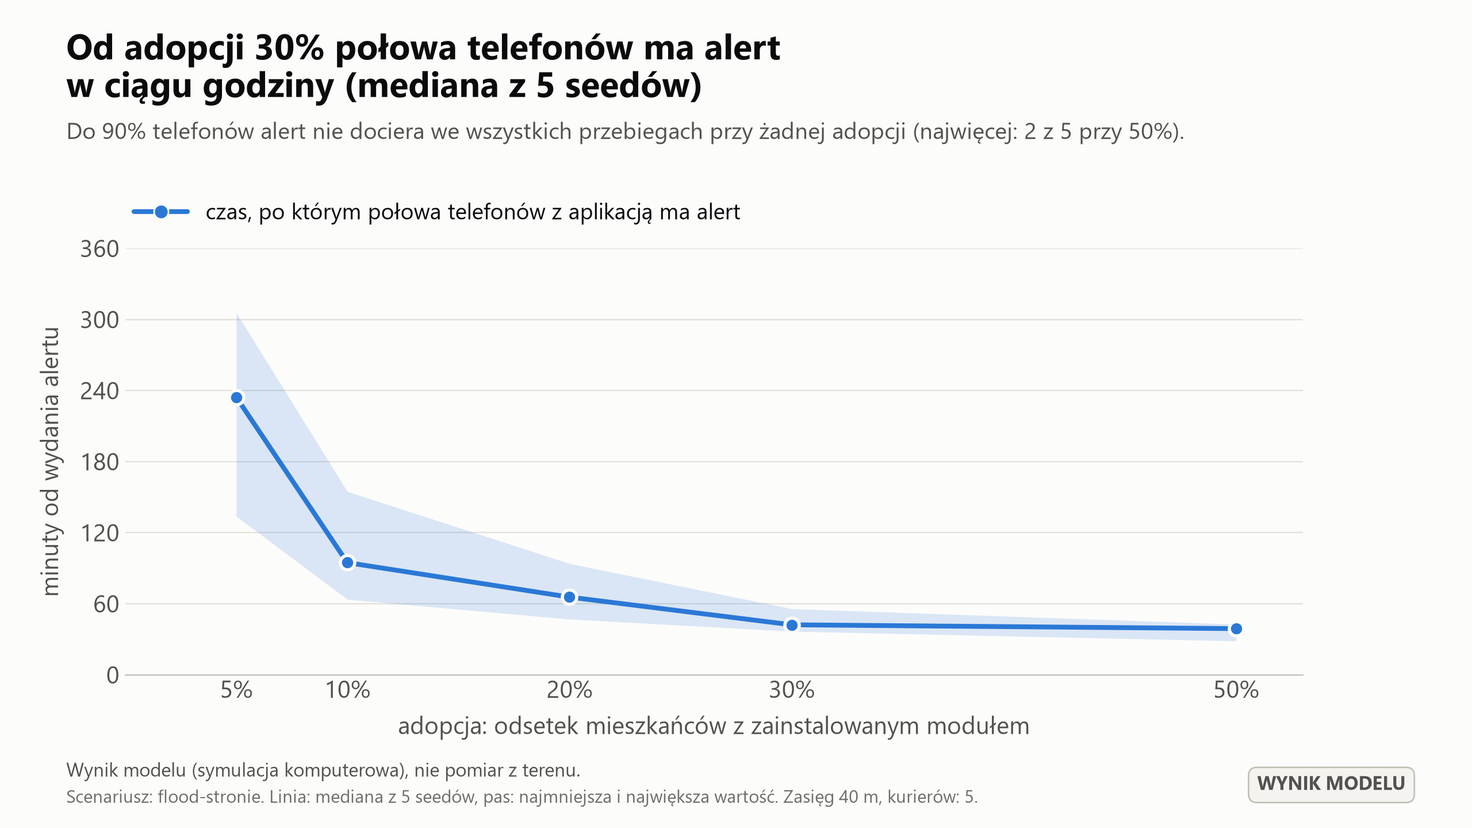
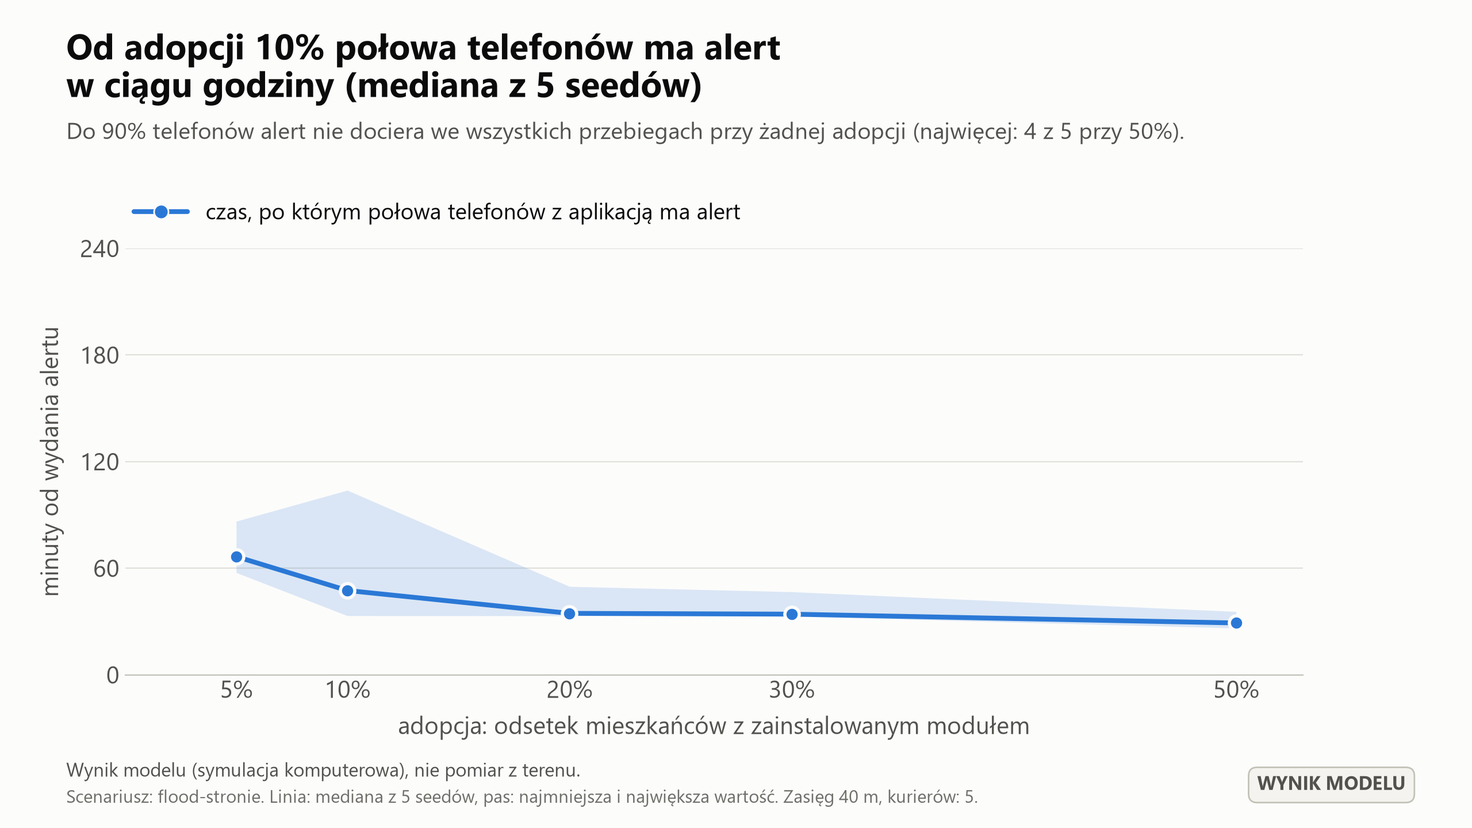
Przeliczony przegląd dla scenariusza całego miasta; WYNIKI.md mówi wprost, która część kryterium zawodzi
- docs/WYNIKI.md i docs/wykresy z 265 uruchomień policzonych na ad4d1e9
- krótsze napisy końcowe animacji w wariancie dla całego miasta

diff --git a/src/sztafeta/viz/labels.py b/src/sztafeta/viz/labels.py
@@ -154,7 +154,7 @@ _PL: dict[str, str] = {
     "ev_couriers_city": "Kurierzy roznoszą alert po mieście",
     "ev_evac_start_city": "Miasto zaczyna się ewakuować",
     "ev_evac_half_city": "Połowa miasta jest bezpieczna",
-    "ev_end_city": "Ewakuowano {pct:.0f}% mieszkańców miasta",
+    "ev_end_city": "Ewakuowano {pct:.0f}% mieszkańców",
     "evac_title_city": "Dzięki alertowi do punktu ewakuacji dociera {relay} mieszkańców miasta",
     "evac_sub_city": "Wszyscy mieszkańcy miasta, z aplikacją i bez (ci drudzy dowiadują się ustnie).",
     "evac_sub_vs_city": (
@@ -306,11 +306,11 @@ _EN: dict[str, str] = {
     "ev_evac_half": "Half of the zone is safe",
     "ev_end": "{pct:.0f}% of zone residents evacuated",
     "tile_evac_city": "Residents at the evacuation point",
-    "tile_evac_value_city": "{pct:.0f}% of the town's residents",
+    "tile_evac_value_city": "{pct:.0f}% of town residents",
     "ev_couriers_city": "Couriers carry the alert across town",
     "ev_evac_start_city": "The town starts evacuating",
     "ev_evac_half_city": "Half of the town is safe",
-    "ev_end_city": "{pct:.0f}% of the town's residents evacuated",
+    "ev_end_city": "{pct:.0f}% of residents evacuated",
     "evac_title_city": "Thanks to the alert {relay} of the town's residents reach the evacuation point",
     "evac_sub_city": "All town residents, with and without the app (the latter learn by word of mouth).",
     "evac_sub_vs_city": (

diff --git a/src/sztafeta/wyniki.py b/src/sztafeta/wyniki.py
@@ -304,11 +304,18 @@ def write_wyniki(
         if below:
             row = _one(summary, FULL, below[-1], ref_r, ref_c)
             if row is not None:
+                # wprost, która część kryterium zawodzi o stopień niżej: czas, zasięg czy obie
+                t50 = row["t50_app_s_med"]
+                slow = t50 is None or pd.isna(t50) or float(t50) > THRESHOLD_T50_S
+                low = float(row["alert_reach_zone_app_med"]) < THRESHOLD_ZONE_PCT
+                why = " i ".join(
+                    text for text, failed in (("za wolno", slow), ("za mały zasięg", low)) if failed
+                )
                 add(
-                    f"Przy adopcji {100 * below[-1]:.0f}% połowa telefonów ma alert dopiero po "
-                    f"{_time_cell(row, 't50_app_s', seeds)}, a zasięg "
+                    f"Przy adopcji {100 * below[-1]:.0f}% kryterium nie jest spełnione ({why}): "
+                    f"połowa telefonów ma alert po {_time_cell(row, 't50_app_s', seeds)}, a zasięg "
                     f"{'na koniec' if city else 'w strefie zagrożenia'} wynosi "
-                    f"{float(row['alert_reach_zone_app_med']):.0f}%."
+                    f"{float(row['alert_reach_zone_app_med']):.1f}%."
                 )
     add("")
     add(

diff --git a/tests/test_city_area.py b/tests/test_city_area.py
@@ -149,7 +149,7 @@ def test_animation_without_zone_tells_the_story_of_the_whole_city(city_run: Path
     texts = [text for _, text in anim.story]
     assert "Kurierzy roznoszą alert po mieście" in texts
     assert "Miasto zaczyna się ewakuować" in texts
-    assert texts[-1].startswith("Ewakuowano") and texts[-1].endswith("mieszkańców miasta")
+    assert texts[-1].startswith("Ewakuowano") and texts[-1].endswith("mieszkańców")
     assert texts.index("Kurierzy roznoszą alert po mieście") < texts.index("Miasto zaczyna się ewakuować")
     anim.draw(Shot(900.0))
     drawn = [t.get_text() for t in anim.ax.texts] + [t.get_text() for t in anim.panel.texts]

diff --git a/docs/WYNIKI.md b/docs/WYNIKI.md
@@ -6,57 +6,58 @@
 
 - preset: `flood-stronie`, mapa: OpenStreetMap, Stronie Śląskie (© autorzy OpenStreetMap (ODbL))
 - czas symulacji: 6 h od awarii sieci, 2999 mieszkańców
+- alert i ewakuacja dotyczą **całego miasta** (scenariusz bez wydzielonej strefy zagrożenia); kurierzy patrolują ulice przy wszystkich budynkach
 - adopcja: 5%, 10%, 20%, 30%, 50%
 - zasięg radia: 25 m, 40 m, 80 m
 - liczba kurierów: 2, 5, 10
 - seedy: 5 na kombinację (1–5); łącznie 265 uruchomień
 - przy ustawieniach odniesienia (adopcja 30%, zasięg 40 m, 5 kurierów) dodatkowo: wariant bez Sztafety, same telefony, sami kurierzy i warianty wrażliwości (punkty 5 i 6)
-- wersja kodu: `0.1.0+839b5dc`
+- wersja kodu: `0.1.0+ad4d1e9`
 
 W tabelach podajemy **medianę między seedami**, a w nawiasie **najmniejszą i największą wartość** (rozrzut). Czasy liczymy od wydania alertu. „Adopcja” oznacza telefony z zainstalowanym i działającym modułem (Bluetooth włączony, aplikacja może pracować w tle).
 
 ## Liczby na slajd
 
-1. W modelu (adopcja 30%, zasięg 40 m, 5 kurierów, 5 seedów) zweryfikowany alert po 6 h ma **83% telefonów z aplikacją** (rozrzut 82–84%), a w strefie zagrożenia **96%**. Połowa telefonów ma go po 42 min (37–56) od wydania. Przy zasięgu 25 m: 70% telefonów, połowa po 125 min (99–192).
-2. Skąd bierze się ten wynik (adopcja 30%, zasięg 40 m, 5 kurierów, 5 seedów): bez żadnego przekazywania alert ma 2.7% telefonów; same telefony bez kurierów dają 70% (w strefie 58%); sami kurierzy bez przekazywania telefon–telefon 44% (w strefie 80%); oba mechanizmy razem **83%** (w strefie 96%). W strefie zagrożenia większość pracy wykonują kurierzy, poza nią telefony mieszkańców.
-3. W modelu (adopcja 30%, zasięg 40 m, 5 kurierów, 5 seedów) do PCZK dociera **99% zgłoszeń mieszkańców strefy zagrożenia** i 51% zgłoszeń spoza strefy, gdzie kurierzy nie patrolują (łącznie 76%). Mediana opóźnienia dostarczonych zgłoszeń to 12 min. Potwierdzenie „przyjęto” wraca do **96%** zgłaszających, których zgłoszenie dotarło.
-4. W modelu (adopcja 30%, zasięg 40 m, 5 kurierów, 5 seedów) ze strefy zagrożenia ewakuuje się **67%** mieszkańców: 24% to osoby z aplikacją, a 43% osoby bez aplikacji poinformowane ustnie przez domowników i sąsiadów. To założenie modelu: bez przekazu ustnego ewakuuje się 22%, a gdy informują się tylko domownicy – 45%.
-5. We wszystkich 225 uruchomieniach pełnej siatki fałszywy alert uznało za zweryfikowany **0 urządzeń** (dostało go: mediana 55 urządzeń w bezpośrednim zasięgu trolla).
+1. W modelu (adopcja 30%, zasięg 40 m, 5 kurierów, 5 seedów) zweryfikowany alert po 6 h ma **88% telefonów z aplikacją** (rozrzut 86–90%). Połowa telefonów ma go po 34 min (33–47) od wydania. Przy zasięgu 25 m: 73% telefonów, połowa po 94 min (64–128).
+2. Skąd bierze się ten wynik (adopcja 30%, zasięg 40 m, 5 kurierów, 5 seedów): bez żadnego przekazywania alert ma 2.5% telefonów; same telefony bez kurierów dają 60%; sami kurierzy bez przekazywania telefon–telefon 71%; oba mechanizmy razem **88%**.
+3. W modelu (adopcja 30%, zasięg 40 m, 5 kurierów, 5 seedów) do PCZK dociera **99% zgłoszeń mieszkańców**. Mediana opóźnienia dostarczonych zgłoszeń to 13 min. Potwierdzenie „przyjęto” wraca do **97%** zgłaszających, których zgłoszenie dotarło.
+4. W modelu (adopcja 30%, zasięg 40 m, 5 kurierów, 5 seedów) do punktu ewakuacji dociera **59%** mieszkańców miasta: 21% to osoby z aplikacją, a 38% osoby bez aplikacji poinformowane ustnie przez domowników i sąsiadów. To założenie modelu: bez przekazu ustnego ewakuuje się 21%, a gdy informują się tylko domownicy – 43%.
+5. We wszystkich 225 uruchomieniach pełnej siatki fałszywy alert uznało za zweryfikowany **0 urządzeń** (dostało go: mediana 63 urządzeń w bezpośrednim zasięgu trolla).
 
 ## Od jakiej adopcji system ma sens
 
-Kryterium (umowne, przy 5 kurierach): połowa telefonów z aplikacją ma alert **najpóźniej godzinę po jego wydaniu**, a po 6 h ma go **co najmniej 90% telefonów z aplikacją w strefie zagrożenia** (mediany między seedami). Sam zasięg na koniec nie wystarcza: przy małej adopcji alert roznoszą głównie kurierzy i trwa to godzinami.
+Kryterium (umowne, przy 5 kurierach): połowa telefonów z aplikacją ma alert **najpóźniej godzinę po jego wydaniu**, a po 6 h ma go **co najmniej 90% telefonów z aplikacją** (mediany między seedami). Sam zasięg na koniec nie wystarcza: przy małej adopcji alert roznoszą głównie kurierzy i trwa to godzinami.
 
 | Zasięg radia | Najmniejsza badana adopcja spełniająca kryterium |
 |---|---|
 | 25 m | nie osiągnięto (do 50%) |
-| 40 m | 30% |
+| 40 m | 50% |
 | 80 m | 5% |
 
-**Próg w modelu przy zasięgu 40 m i 5 kurierach: adopcja 30%.** To najmniejsza z badanych wartości, a nie dokładna granica.
-Przy adopcji 20% połowa telefonów ma alert dopiero po 66 min (47–94), a zasięg w strefie zagrożenia wynosi 95%.
+**Próg w modelu przy zasięgu 40 m i 5 kurierach: adopcja 50%.** To najmniejsza z badanych wartości, a nie dokładna granica.
+Przy adopcji 30% kryterium nie jest spełnione (za mały zasięg): połowa telefonów ma alert po 34 min (33–47), a zasięg na koniec wynosi 88.1%.
 
 Uwagi: (1) próg zależy od zasięgu radia bardziej niż od czegokolwiek innego, a zasięgu w zabudowie nie znamy; (2) próg dotyczy sytuacji z kurierami w terenie; (3) nawet powyżej progu sama aplikacja obejmuje tylko swoich użytkowników, czyli przy adopcji 30% najwyżej 30% mieszkańców; reszta zależy od przekazu ustnego i innych kanałów.
 
 ## 1. Czas do zasięgu 50% i 90% telefonów z aplikacją (5 kurierów)
 
-| Adopcja | Zasięg | Czas do 50% | Czas do 90% | Zasięg po 6 h | W strefie zagrożenia |
-|---|---|---|---|---|---|
-| 5% | 25 m | nie osiągnięto | nie osiągnięto | 42.4% (30.6–44.5) | 65.7% (56.7–73.0) |
-| 5% | 40 m | 234 min (134–306) | nie osiągnięto | 59.9% (52.1–67.1) | 88.6% (76.7–92.1) |
-| 5% | 80 m | 49 min (25–56) | nie osiągnięto | 79.1% (72.2–84.1) | 100.0% (91.9–100.0) |
-| 10% | 25 m | nie osiągnięto | nie osiągnięto | 45.7% (41.7–48.7) | 72.6% (67.0–75.4) |
-| 10% | 40 m | 95 min (64–155) | nie osiągnięto | 71.4% (64.0–79.5) | 94.0% (86.2–96.7) |
-| 10% | 80 m | 35 min (18–54) | nie osiągnięto | 82.7% (77.4–87.7) | 98.5% (93.8–100.0) |
-| 20% | 25 m | 219 min (170–279) | nie osiągnięto | 65.0% (54.3–68.2) | 81.9% (76.5–84.0) |
-| 20% | 40 m | 66 min (47–94) | nie osiągnięto | 78.7% (73.7–83.4) | 95.2% (92.5–96.8) |
-| 20% | 80 m | 29 min (15–33) | 312 min (283–340), tylko 2/5 przebiegów | 90.0% (84.0–94.6) | 98.8% (97.8–100.0) |
-| 30% | 25 m | 125 min (99–192) | nie osiągnięto | 70.2% (61.6–73.0) | 84.0% (79.4–87.1) |
-| 30% | 40 m | 42 min (37–56) | nie osiągnięto | 83.4% (81.7–84.1) | 96.1% (91.5–96.3) |
-| 30% | 80 m | 17 min (14–25) | 304 min (179–333), tylko 4/5 przebiegów | 91.2% (89.1–94.8) | 99.2% (97.5–100.0) |
-| 50% | 25 m | 99 min (70–109) | nie osiągnięto | 79.1% (77.3–81.8) | 88.9% (84.5–92.0) |
-| 50% | 40 m | 39 min (29–43) | 265 min (200–331), tylko 2/5 przebiegów | 88.9% (87.6–92.7) | 97.1% (94.7–99.0) |
-| 50% | 80 m | 15 min (12–20) | 152 min (120–251) | 98.6% (96.5–98.7) | 99.4% (98.9–100.0) |
+| Adopcja | Zasięg | Czas do 50% | Czas do 90% | Zasięg po 6 h |
+|---|---|---|---|---|
+| 5% | 25 m | 231 min (143–343) | nie osiągnięto | 55.2% (50.3–62.8) |
+| 5% | 40 m | 67 min (58–86) | nie osiągnięto | 79.7% (75.2–86.0) |
+| 5% | 80 m | 27 min (21–28) | 225 min (182–277), tylko 3/5 przebiegów | 91.7% (88.0–94.3) |
+| 10% | 25 m | 188 min (127–279) | nie osiągnięto | 60.1% (55.5–60.9) |
+| 10% | 40 m | 47 min (33–104) | nie osiągnięto | 83.0% (80.1–83.4) |
+| 10% | 80 m | 21 min (16–25) | 195 min (182–214), tylko 4/5 przebiegów | 92.4% (89.6–94.0) |
+| 20% | 25 m | 128 min (99–178) | nie osiągnięto | 68.5% (64.3–71.2) |
+| 20% | 40 m | 35 min (33–50) | nie osiągnięto | 85.5% (84.7–88.1) |
+| 20% | 80 m | 20 min (16–22) | 168 min (116–240) | 95.3% (92.2–97.1) |
+| 30% | 25 m | 94 min (64–128) | nie osiągnięto | 73.3% (71.3–77.4) |
+| 30% | 40 m | 34 min (33–47) | 329 min (329–329), tylko 1/5 przebiegów | 88.1% (86.2–90.2) |
+| 30% | 80 m | 17 min (13–18) | 200 min (145–218) | 94.1% (92.3–95.5) |
+| 50% | 25 m | 58 min (45–76) | nie osiągnięto | 78.6% (76.2–80.4) |
+| 50% | 40 m | 29 min (26–36) | 302 min (223–337), tylko 4/5 przebiegów | 90.7% (89.2–94.0) |
+| 50% | 80 m | 14 min (13–15) | 100 min (61–115) | 95.9% (94.2–98.4) |
 
 ![Czas do zasięgu w funkcji adopcji](wykresy/adopcja_czas_pl.png)
 
@@ -64,25 +65,25 @@ Uwagi: (1) próg zależy od zasięgu radia bardziej niż od czegokolwiek innego,
 
 ## 2. Zgłoszenia dostarczone do PCZK (zasięg 40 m)
 
-Odsetek zgłoszeń wysłanych do danej chwili, które do tej chwili dotarły do PCZK (czas od awarii sieci). Kurierzy patrolują strefę zagrożenia i punkt ewakuacji, dlatego zgłoszenia ze strefy i spoza niej pokazujemy osobno. Liczba zgłoszeń rośnie z zasięgiem alertu, więc odsetki łączne z różnych wierszy nie są wprost porównywalne.
+Odsetek zgłoszeń wysłanych do danej chwili, które do tej chwili dotarły do PCZK (czas od awarii sieci). Kurierzy patrolują całe miasto i punkt ewakuacji. Liczba zgłoszeń rośnie z zasięgiem alertu, więc odsetki łączne z różnych wierszy nie są wprost porównywalne.
 
-| Adopcja | Kurierzy | Zgłoszeń (mediana) | Po 1 h | Po 3 h | Po 6 h | Ze strefy | Spoza strefy | „Potrzebuję pomocy” | Mediana opóźnienia dostarczonych |
-|---|---|---|---|---|---|---|---|---|---|
-| 5% | 2 | 31 | 33.3% (0.0–90.0) | 70.8% (65.4–84.0) | 86.2% (64.1–90.0) | 94.1% (83.3–100.0) | 70.0% (47.6–80.0) | 60.0% (25.0–100.0) | 17 min |
-| 5% | 5 | 37 | 50.0% (31.6–68.8) | 84.6% (78.3–96.9) | 86.5% (78.8–90.5) | 100.0% (95.5–100.0) | 61.1% (50.0–85.0) | 80.0% (50.0–100.0) | 12 min |
-| 5% | 10 | 35 | 74.1% (46.2–86.4) | 88.9% (69.7–97.2) | 90.9% (77.1–94.6) | 100.0% (100.0–100.0) | 77.8% (55.6–83.3) | 66.7% (0.0–100.0) | 10 min |
-| 10% | 2 | 74 | 52.2% (0.0–60.0) | 68.6% (46.8–76.8) | 78.4% (68.1–91.9) | 100.0% (97.6–100.0) | 51.4% (35.3–74.1) | 71.4% (40.0–88.9) | 18 min |
-| 10% | 5 | 87 | 63.0% (55.6–73.7) | 74.5% (68.4–94.9) | 76.7% (68.4–92.6) | 100.0% (100.0–100.0) | 52.8% (35.1–78.1) | 80.0% (50.0–85.7) | 11 min |
-| 10% | 10 | 82 | 71.4% (54.1–73.2) | 78.3% (73.0–85.7) | 77.2% (74.7–88.8) | 100.0% (97.8–100.0) | 51.2% (43.9–74.3) | 75.0% (0.0–83.3) | 11 min |
-| 20% | 2 | 184 | 50.7% (0.0–58.5) | 66.2% (53.9–77.7) | 74.6% (72.1–79.9) | 98.2% (97.5–99.0) | 50.5% (45.2–55.2) | 60.0% (53.3–85.7) | 20 min |
-| 20% | 5 | 188 | 58.2% (51.2–66.3) | 80.5% (75.5–92.3) | 80.8% (74.0–84.8) | 99.1% (97.7–100.0) | 59.0% (48.8–69.6) | 78.6% (61.5–90.5) | 13 min |
-| 20% | 10 | 191 | 69.6% (63.7–72.0) | 78.3% (74.1–82.9) | 81.1% (76.8–83.1) | 99.1% (97.8–100.0) | 61.1% (53.1–67.3) | 73.3% (63.2–100.0) | 12 min |
-| 30% | 2 | 295 | 45.5% (0.0–58.9) | 69.6% (63.8–71.2) | 72.7% (68.2–76.6) | 98.4% (96.1–99.4) | 48.3% (38.9–51.8) | 80.0% (61.5–90.9) | 21 min |
-| 30% | 5 | 305 | 54.7% (39.8–66.7) | 73.4% (67.9–78.1) | 75.5% (72.1–80.0) | 99.4% (98.8–100.0) | 51.2% (48.3–59.0) | 85.0% (66.7–90.5) | 12 min |
-| 30% | 10 | 298 | 71.4% (70.4–75.2) | 78.4% (72.9–79.3) | 78.5% (74.1–82.7) | 100.0% (99.3–100.0) | 54.4% (45.6–62.1) | 85.7% (82.4–93.3) | 12 min |
-| 50% | 2 | 479 | 48.6% (0.8–53.1) | 67.7% (60.9–73.9) | 71.6% (67.0–78.9) | 99.2% (97.4–99.6) | 42.9% (39.4–56.0) | 78.8% (69.2–84.6) | 20 min |
-| 50% | 5 | 514 | 56.1% (42.9–59.7) | 73.7% (70.8–74.6) | 77.4% (74.3–77.9) | 100.0% (98.4–100.0) | 53.8% (48.7–56.3) | 82.5% (75.0–90.3) | 15 min |
-| 50% | 10 | 539 | 62.3% (54.6–67.0) | 73.7% (70.5–76.4) | 75.1% (69.4–76.7) | 99.6% (99.2–100.0) | 51.0% (43.3–51.8) | 82.9% (72.5–91.4) | 13 min |
+| Adopcja | Kurierzy | Zgłoszeń (mediana) | Po 1 h | Po 3 h | Po 6 h | „Potrzebuję pomocy” | Mediana opóźnienia dostarczonych |
+|---|---|---|---|---|---|---|---|
+| 5% | 2 | 67 | 0.0% (0.0–80.0) | 87.0% (84.6–96.5) | 96.8% (92.9–100.0) | 70.0% (55.6–100.0) | 16 min |
+| 5% | 5 | 80 | 76.0% (66.7–91.9) | 97.0% (92.6–98.6) | 96.2% (90.9–98.8) | 62.5% (45.5–83.3) | 11 min |
+| 5% | 10 | 88 | 80.0% (73.1–90.2) | 98.8% (95.0–100.0) | 100.0% (97.8–100.0) | 100.0% (83.3–100.0) | 8 min |
+| 10% | 2 | 144 | 3.1% (0.0–87.5) | 89.1% (82.1–98.6) | 96.7% (89.6–99.3) | 71.4% (58.8–91.7) | 18 min |
+| 10% | 5 | 161 | 74.7% (67.9–86.0) | 97.3% (94.4–98.5) | 97.5% (96.6–98.8) | 88.9% (61.5–94.7) | 11 min |
+| 10% | 10 | 184 | 86.2% (76.7–92.7) | 97.8% (96.4–98.8) | 98.5% (96.9–99.5) | 88.9% (66.7–93.8) | 9 min |
+| 20% | 2 | 338 | 4.2% (0.0–86.0) | 90.2% (88.0–96.6) | 97.6% (95.9–98.7) | 80.8% (76.5–88.9) | 18 min |
+| 20% | 5 | 351 | 71.8% (69.5–84.6) | 97.3% (93.6–99.4) | 98.5% (98.0–99.2) | 90.2% (82.9–94.7) | 12 min |
+| 20% | 10 | 377 | 86.4% (81.2–89.0) | 99.0% (96.7–99.2) | 99.5% (98.5–99.7) | 94.1% (87.1–100.0) | 9 min |
+| 30% | 2 | 518 | 7.5% (1.6–72.0) | 92.6% (88.0–97.7) | 98.1% (95.8–98.8) | 89.1% (81.8–94.8) | 20 min |
+| 30% | 5 | 552 | 61.9% (55.8–74.1) | 97.9% (96.6–99.2) | 98.8% (98.0–99.3) | 94.9% (79.5–97.0) | 13 min |
+| 30% | 10 | 584 | 83.9% (77.7–88.3) | 99.1% (98.5–99.6) | 99.1% (99.0–99.7) | 93.3% (89.7–96.2) | 10 min |
+| 50% | 2 | 909 | 5.8% (3.4–53.8) | 89.6% (86.7–95.4) | 99.2% (99.1–99.7) | 94.6% (92.2–96.5) | 26 min |
+| 50% | 5 | 976 | 46.1% (44.4–66.6) | 98.7% (97.7–99.4) | 99.3% (98.5–99.4) | 94.4% (91.4–96.3) | 16 min |
+| 50% | 10 | 995 | 73.0% (70.3–76.0) | 99.1% (98.8–99.4) | 99.3% (99.2–99.7) | 94.2% (93.5–99.0) | 11 min |
 
 ![Zgłoszenia w PCZK w funkcji liczby kurierów](wykresy/kurierzy_zgloszenia_pl.png)
 
@@ -92,49 +93,49 @@ Odsetek zgłoszeń dostarczonych do PCZK, których autor dostał podpisane potwi
 
 | Adopcja | 2 kurierów | 5 kurierów | 10 kurierów |
 |---|---|---|---|
-| 5% | 92.3% (80.0–96.3) | 92.9% (84.6–100.0) | 93.3% (88.9–100.0) |
-| 10% | 92.8% (86.1–100.0) | 95.2% (90.4–97.1) | 95.2% (91.8–97.7) |
-| 20% | 94.9% (93.7–97.3) | 96.4% (95.2–98.1) | 96.5% (95.6–98.0) |
-| 30% | 96.0% (95.6–97.7) | 96.2% (95.7–96.3) | 96.8% (95.9–98.6) |
-| 50% | 96.3% (94.8–98.1) | 97.1% (95.4–97.4) | 97.7% (96.4–98.8) |
+| 5% | 95.1% (89.4–97.0) | 97.6% (96.1–100.0) | 97.7% (96.4–98.9) |
+| 10% | 98.6% (92.4–99.3) | 97.8% (96.1–99.4) | 99.0% (97.5–100.0) |
+| 20% | 96.3% (94.5–97.1) | 97.4% (95.0–98.4) | 98.7% (97.1–99.4) |
+| 30% | 96.6% (94.0–97.6) | 97.4% (96.9–97.8) | 98.2% (97.1–98.5) |
+| 50% | 96.8% (94.3–97.8) | 97.9% (96.9–98.3) | 98.4% (97.6–98.6) |
 
 ## 4. Fałszywe alerty
 
 - urządzenia, które uznały fałszywy alert za zweryfikowany: **0** (maksimum ze wszystkich 225 uruchomień pełnej siatki; oczekiwane 0)
-- urządzenia, które go odebrały i oznaczyły jako niezweryfikowany: mediana 55, najwięcej 314
+- urządzenia, które go odebrały i oznaczyły jako niezweryfikowany: mediana 63, najwięcej 256
 - żadne urządzenie nie rozpoczęło ewakuacji ani nie zmieniło stanu z powodu fałszywego alertu (test automatyczny)
 
 ## 5. Co daje który mechanizm (adopcja 30%, zasięg 40 m, 5 kurierów, 5 seedów)
 
-| Wariant | Zasięg alertu (telefony z aplikacją) | Zasięg w strefie zagrożenia | Czas do 50% | Ewakuowani ze strefy | Zgłoszenia w PCZK |
-|---|---|---|---|---|---|
-| Bez Sztafety: tylko zasięg huba, zgłoszenia osobiście | 2.7% (1.9–2.9) | 0.0% (0.0–0.0) | nie osiągnięto | 0.0% (0.0–0.0) | 9.5% (0.0–33.3) |
-| Same telefony, bez kurierów | 70.2% (59.7–72.8) | 57.7% (40.0–69.7) | 162 min (81–283) | 40.7% (28.2–48.0) | 12.7% (10.7–15.0) |
-| Sami kurierzy, bez przekazywania telefon–telefon | 44.2% (40.3–46.2) | 80.3% (78.0–92.9) | nie osiągnięto | 56.9% (55.3–58.6) | 91.8% (88.0–94.9) |
-| Pełna Sztafeta: telefony i kurierzy | 83.4% (81.7–84.1) | 96.1% (91.5–96.3) | 42 min (37–56) | 66.6% (56.0–68.0) | 75.5% (72.1–80.0) |
+| Wariant | Zasięg alertu (telefony z aplikacją) | Czas do 50% | Mieszkańcy w punkcie ewakuacji | Zgłoszenia w PCZK |
+|---|---|---|---|---|
+| Bez Sztafety: tylko zasięg huba, zgłoszenia osobiście | 2.5% (2.3–3.3) | nie osiągnięto | 3.9% (2.8–4.9) | 0.0% (0.0–5.0) |
+| Same telefony, bez kurierów | 60.1% (53.8–61.0) | 176 min (162–208) | 40.6% (37.6–43.5) | 3.3% (2.7–4.3) |
+| Sami kurierzy, bez przekazywania telefon–telefon | 71.4% (68.2–74.1) | 109 min (92–129) | 50.2% (49.0–51.4) | 87.2% (86.2–91.0) |
+| Pełna Sztafeta: telefony i kurierzy | 88.1% (86.2–90.2) | 34 min (33–47) | 59.5% (59.0–59.8) | 98.8% (98.0–99.3) |
 
 - **Bez Sztafety**: telefony nie przekazują pakietów, alert dostaje tylko urządzenie w zasięgu huba, zgłoszenie trzeba zanieść osobiście. Wariant nie obejmuje syren, megafonów ani obchodu służb – to dolna granica, nie opis tego, co się wydarzyło.
-- **Same telefony**: sieć niesiona ruchem ludzi. Bez kurierów alert rozchodzi się po mieście, ale wolno, a zgłoszenia prawie nie docierają do PCZK.
-- **Sami kurierzy**: kurier przekazuje alert telefonom, które mija, i zbiera od nich zgłoszenia, ale telefony nie podają niczego dalej. Wysoki odsetek zgłoszeń wynika też z tego, że poza strefą alert ma mniej osób, więc mniej osób w ogóle wysyła zgłoszenie.
+- **Same telefony**: sieć niesiona wyłącznie ruchem mieszkańców. Nikt nie zbiera zgłoszeń po drodze, więc do PCZK trafiają tylko te, których nosiciel znalazł się w zasięgu huba.
+- **Sami kurierzy**: kurier przekazuje alert telefonom, które mija, i zbiera od nich zgłoszenia, ale telefony nie podają niczego dalej. Odsetek zgłoszeń liczymy od zgłoszeń wysłanych, a tych jest mniej, gdy alert ma mniej osób.
 
 ## 6. Wrażliwość na założenia (adopcja 30%, zasięg 40 m, 5 kurierów, 5 seedów)
 
 Po jednej zmianie względem ustawień odniesienia. Tych założeń nie da się dziś sprawdzić w terenie, a wpływają na wynik podobnie mocno jak zasięg radia.
 
-| Wariant | Zasięg alertu (telefony z aplikacją) | Zasięg w strefie zagrożenia | Czas do 50% | Ewakuowani ze strefy | Zgłoszenia w PCZK |
-|---|---|---|---|---|---|
-| Ustawienia odniesienia | 83.4% (81.7–84.1) | 96.1% (91.5–96.3) | 42 min (37–56) | 66.6% (56.0–68.0) | 75.5% (72.1–80.0) |
-| Bez przekazu ustnego | 84.1% (81.1–88.7) | 94.8% (92.4–99.2) | 47 min (32–59) | 22.1% (20.8–23.0) | 77.2% (74.6–79.3) |
-| Przekaz ustny tylko między domownikami | 87.5% (81.6–89.1) | 96.2% (92.9–97.0) | 44 min (38–56) | 45.0% (43.0–47.3) | 75.9% (72.1–79.4) |
-| Okno skanowania 5 s co 60 s (zamiast 10 s) | 79.9% (78.4–81.0) | 94.8% (90.0–97.2) | 53 min (45–67) | 62.0% (53.9–67.2) | 78.9% (70.1–80.3) |
-| Okno skanowania 5 s co 120 s | 69.4% (58.1–74.2) | 87.0% (84.1–95.2) | 116 min (74–189) | 60.6% (52.9–62.9) | 77.4% (72.1–82.5) |
-| Zestawianie połączenia 8–15 s (zamiast 3–8 s) | 82.6% (79.7–86.0) | 95.3% (89.1–97.2) | 49 min (41–52) | 65.1% (61.5–70.3) | 76.3% (69.6–79.1) |
+| Wariant | Zasięg alertu (telefony z aplikacją) | Czas do 50% | Mieszkańcy w punkcie ewakuacji | Zgłoszenia w PCZK |
+|---|---|---|---|---|
+| Ustawienia odniesienia | 88.1% (86.2–90.2) | 34 min (33–47) | 59.5% (59.0–59.8) | 98.8% (98.0–99.3) |
+| Bez przekazu ustnego | 87.0% (86.2–91.0) | 33 min (29–46) | 21.2% (19.9–21.8) | 98.6% (96.4–99.4) |
+| Przekaz ustny tylko między domownikami | 87.1% (85.5–90.0) | 34 min (31–40) | 42.6% (41.5–44.1) | 98.5% (97.8–99.3) |
+| Okno skanowania 5 s co 60 s (zamiast 10 s) | 86.2% (84.4–87.6) | 39 min (37–51) | 58.0% (57.9–59.8) | 98.9% (97.1–99.1) |
+| Okno skanowania 5 s co 120 s | 76.9% (74.5–77.9) | 76 min (65–99) | 51.6% (51.0–53.7) | 97.8% (93.5–98.2) |
+| Zestawianie połączenia 8–15 s (zamiast 3–8 s) | 86.9% (86.2–89.9) | 38 min (36–58) | 58.4% (57.6–59.1) | 98.4% (97.0–98.9) |
 
 ## Koszt i mechanizmy, które w tym scenariuszu nie zadziałały
 
-- średnia bateria telefonów z aplikacją po 6 h: mediana 51% (start: 35–100%). To prosta konsekwencja założonego zużycia, a nie wynik symulacji; rozładowane telefony: najwięcej 0 w jednym uruchomieniu
-- łączny transfer w mieście: mediana 2.9 MB na uruchomienie; 76% transferów to potwierdzenia (każdy Ack rozchodzi się po całym mieście, choć dotyczy najwyżej 32 zgłaszających) – to miejsce do optymalizacji
+- średnia bateria telefonów z aplikacją po 6 h: mediana 50% (start: 35–100%). To prosta konsekwencja założonego zużycia, a nie wynik symulacji; rozładowane telefony: najwięcej 0 w jednym uruchomieniu
+- łączny transfer w mieście: mediana 6.0 MB na uruchomienie; 76% transferów to potwierdzenia (każdy Ack rozchodzi się po całym mieście, choć dotyczy najwyżej 32 zgłaszających) – to miejsce do optymalizacji
 - pakiety usunięte z przepełnionych buforów: najwięcej 0 w jednym uruchomieniu. Limit bufora, limit skoków i czasy życia pakietów są dłuższe niż potrzeby scenariusza 6-godzinnego, więc przegląd ich nie testuje (robią to testy jednostkowe)
-- czas obliczeń jednego uruchomienia: mediana 11 s
+- czas obliczeń jednego uruchomienia: mediana 20 s
 
 Pliki źródłowe: `results/batch/runs.csv` (każde uruchomienie) i `results/batch/summary.csv` (agregacja).
